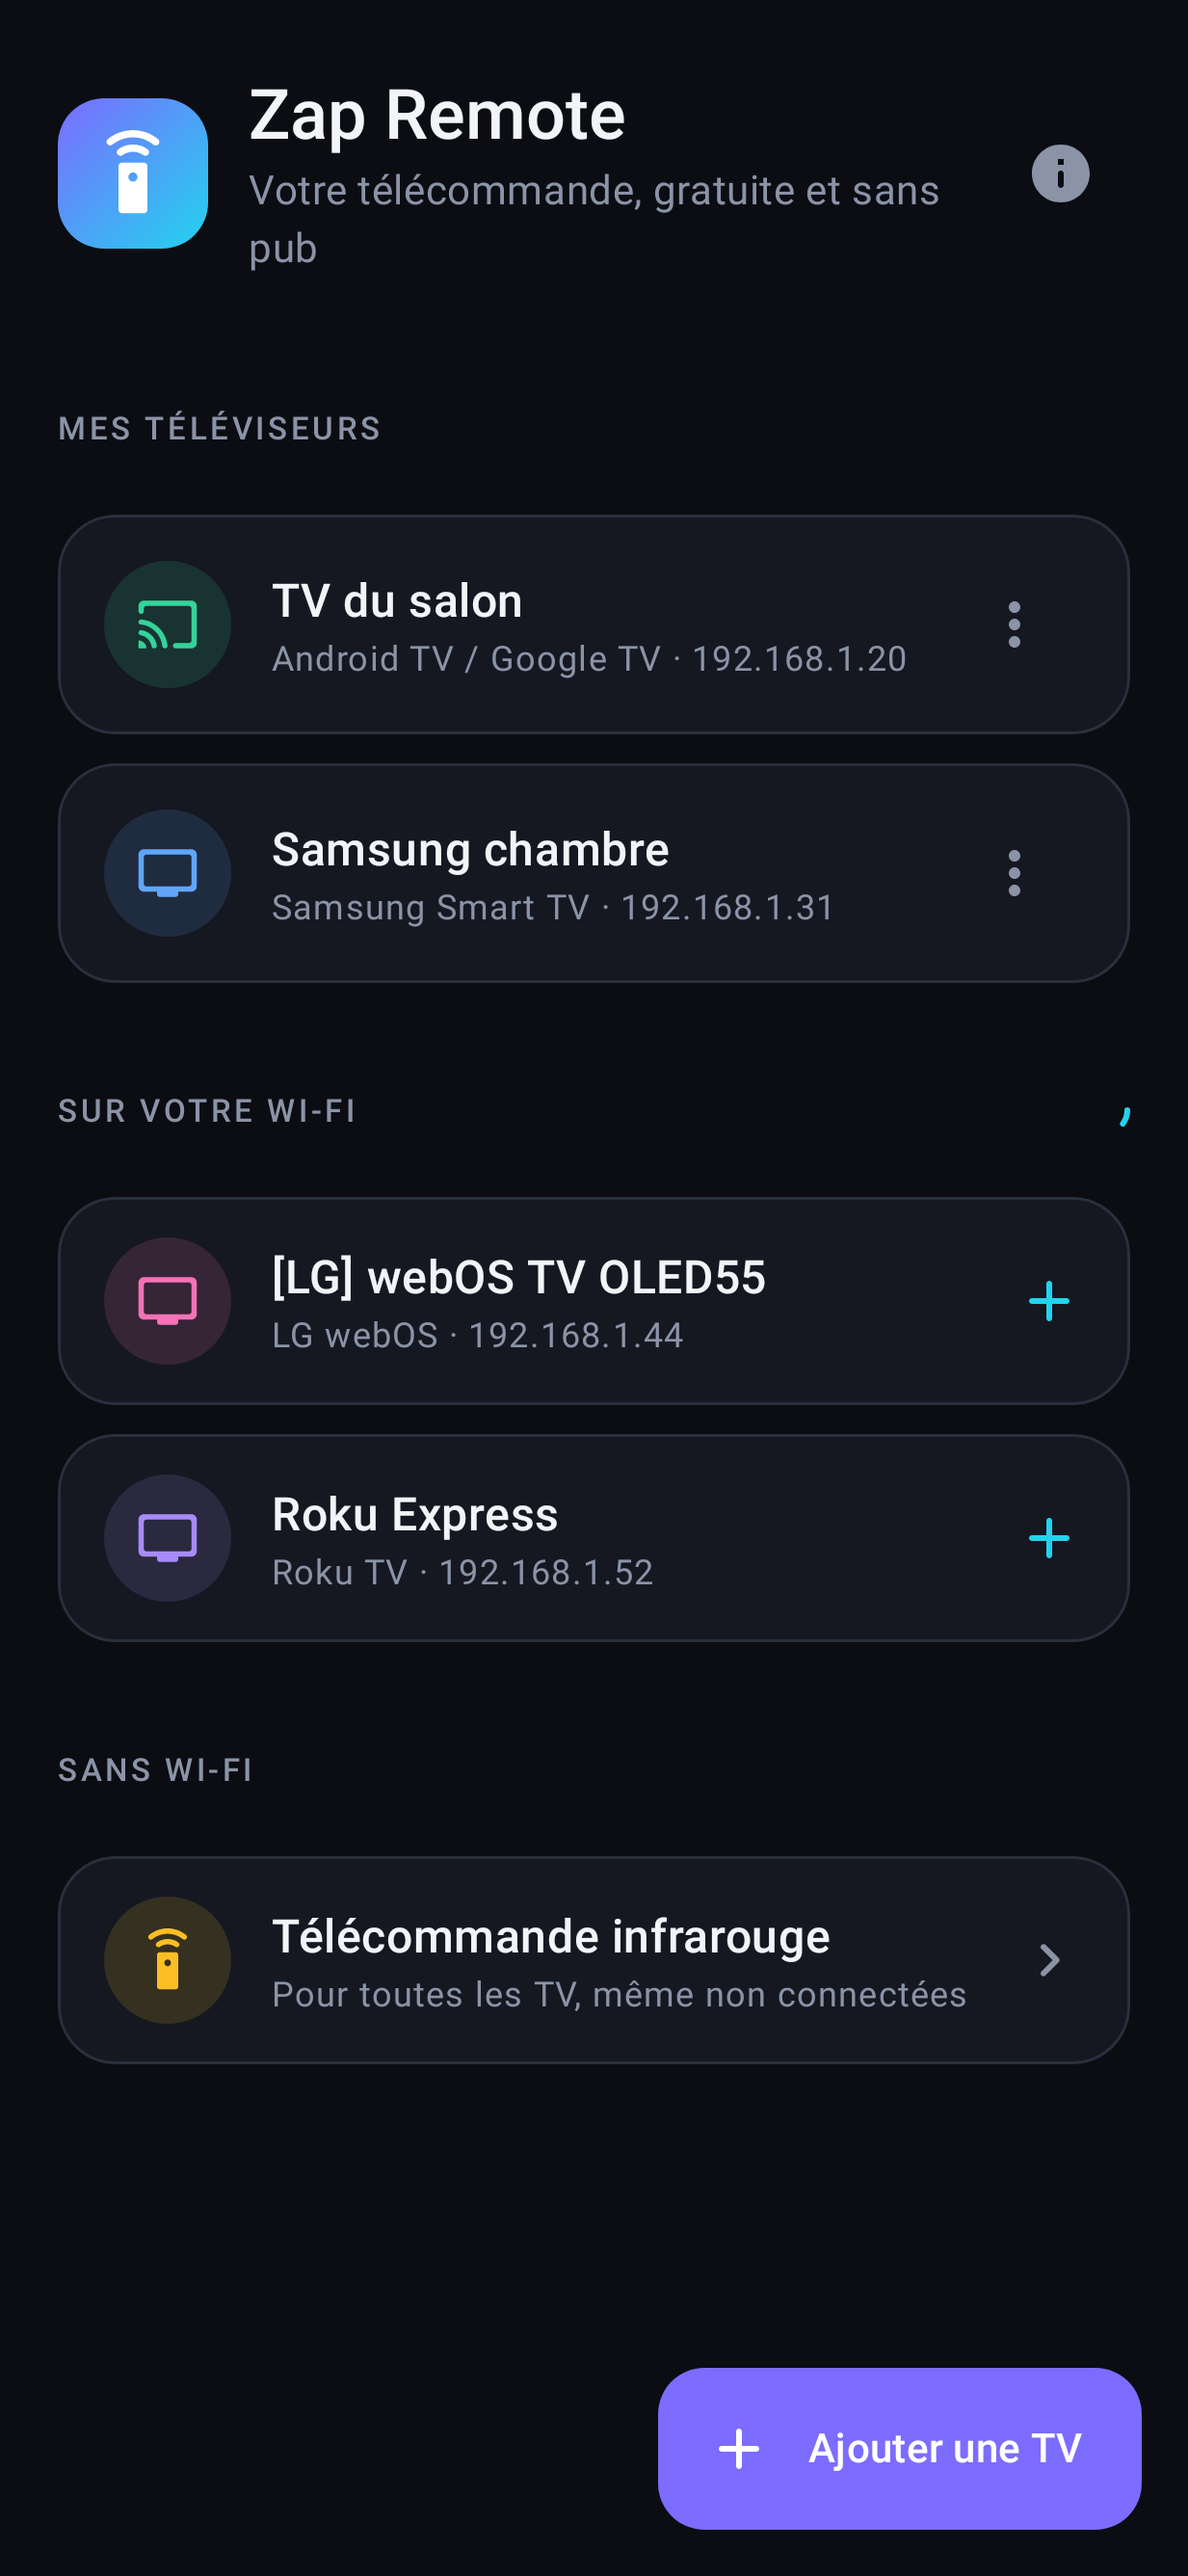
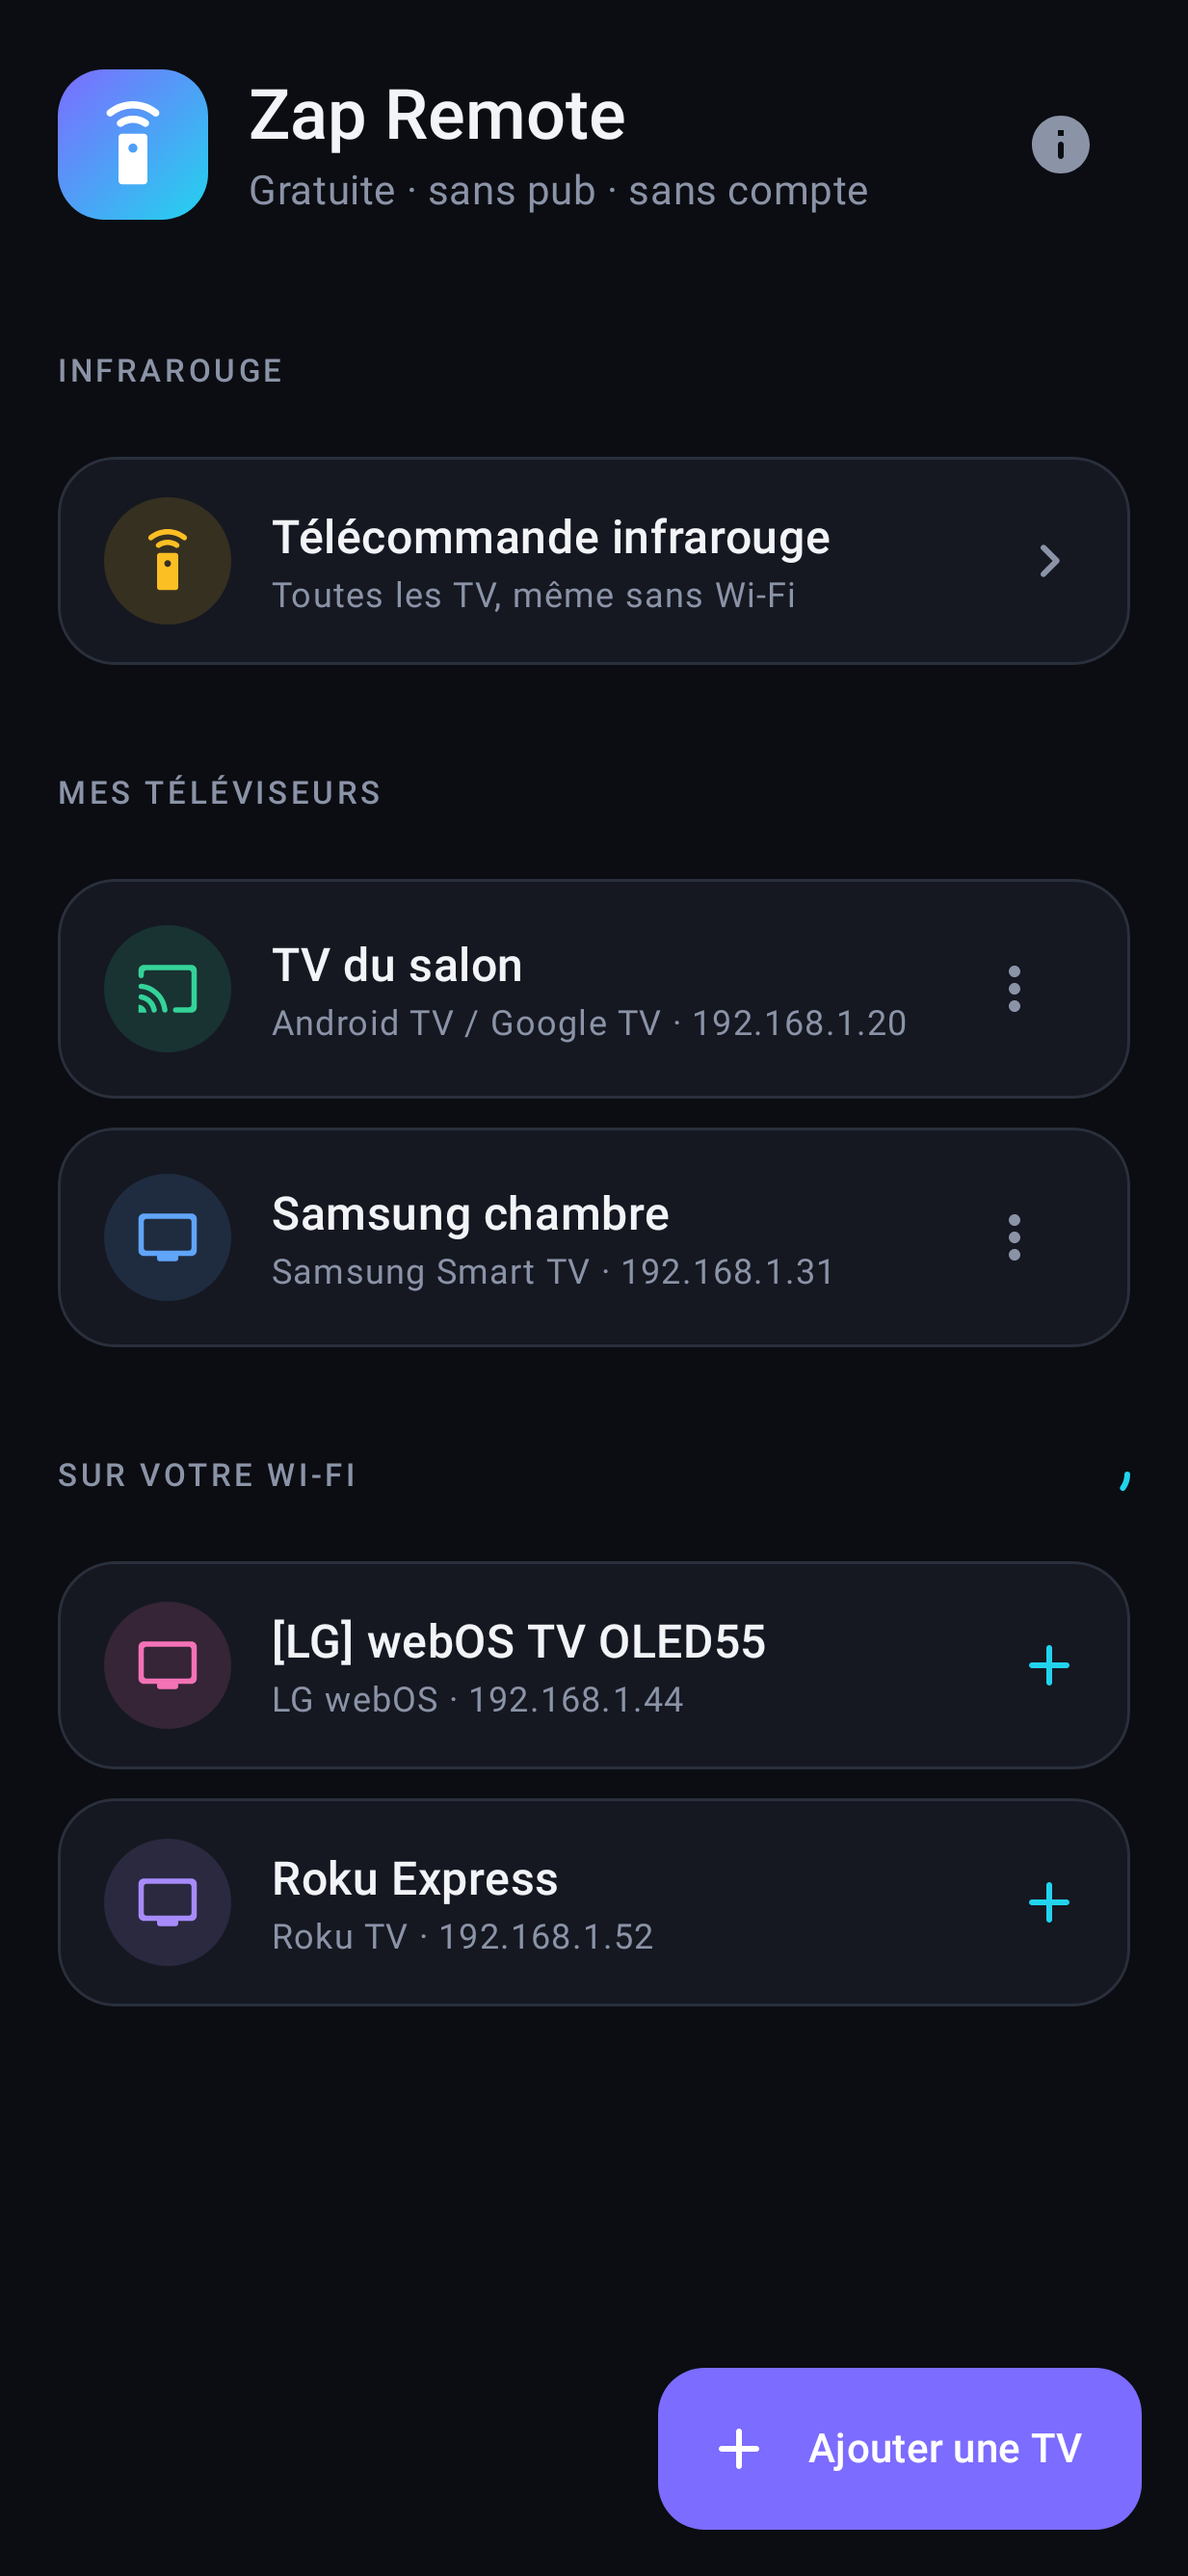
Make the infrared remote always reachable
The IR entry was hidden when the phone reported no emitter and sat at the
bottom of the list. It now shows at the top when an emitter exists, is
offered in the Add TV dialog, and explains what to do when the phone has
no IR blaster.

Claude-Session: https://claude.ai/code/session_01V6u89Q5xvik9sCrJAHsFrb

diff --git a/app/src/main/java/io/github/woroxiv/tvremote/ui/screens/DevicesScreen.kt b/app/src/main/java/io/github/woroxiv/tvremote/ui/screens/DevicesScreen.kt
@@ -128,6 +128,11 @@ fun DevicesScreen(
         ) {
             item { Header(onAbout = { showAbout = true }) }
 
+            if (hasIrEmitter) {
+                item { SectionTitle("Infrarouge") }
+                item { IrCard(hasIrEmitter, onClick = { showIr = true }) }
+            }
+
             if (devices.isNotEmpty()) {
                 item { SectionTitle("Mes téléviseurs") }
                 items(devices, key = { it.id }) { d ->
@@ -163,24 +168,60 @@ fun DevicesScreen(
                 }
             }
 
-            if (hasIrEmitter) {
+            if (!hasIrEmitter) {
                 item { SectionTitle("Sans Wi-Fi") }
-                item {
-                    DeviceRow(
-                        title = "Télécommande infrarouge",
-                        subtitle = "Pour toutes les TV, même non connectées",
-                        protocol = Protocol.IR,
-                        onClick = { showIr = true },
-                        trailing = { Icon(Icons.Rounded.ChevronRight, contentDescription = null, tint = Palette.TextDim) },
-                    )
-                }
+                item { IrCard(hasIrEmitter, onClick = { showIr = true }) }
             }
         }
     }
 
-    if (showManual) ManualDialog(onDismiss = { showManual = false }, onAdd = { n, h, p -> showManual = false; onAddManual(n, h, p) })
-    if (showIr) IrBrandDialog(onDismiss = { showIr = false }, onPick = { showIr = false; onAddIr(it) })
+    if (showManual) ManualDialog(
+        hasIrEmitter = hasIrEmitter,
+        onDismiss = { showManual = false },
+        onAdd = { n, h, p -> showManual = false; onAddManual(n, h, p) },
+        onAddIr = { showManual = false; onAddIr(it) },
+    )
+    if (showIr) {
+        if (hasIrEmitter) IrBrandDialog(onDismiss = { showIr = false }, onPick = { showIr = false; onAddIr(it) })
+        else NoIrDialog(onDismiss = { showIr = false })
+    }
     if (showAbout) AboutDialog(onDismiss = { showAbout = false })
+}
+
+@Composable
+private fun IrCard(hasIrEmitter: Boolean, onClick: () -> Unit) {
+    DeviceRow(
+        title = "Télécommande infrarouge",
+        subtitle = if (hasIrEmitter) "Toutes les TV, même sans Wi-Fi"
+        else "Non disponible sur ce téléphone",
+        protocol = Protocol.IR,
+        onClick = onClick,
+        trailing = { Icon(Icons.Rounded.ChevronRight, contentDescription = null, tint = Palette.TextDim) },
+    )
+}
+
+@Composable
+private fun NoIrDialog(onDismiss: () -> Unit) {
+    AlertDialog(
+        onDismissRequest = onDismiss,
+        title = { Text("Pas d'émetteur infrarouge") },
+        text = {
+            Column(verticalArrangement = Arrangement.spacedBy(8.dp)) {
+                Text(
+                    "Android indique que ce téléphone n'a pas d'émetteur infrarouge. " +
+                        "C'est une petite fenêtre noire sur la tranche du haut, présente surtout sur les " +
+                        "Xiaomi, Redmi, Poco, certains Honor/Huawei et quelques anciens Samsung/LG."
+                )
+                Text(
+                    "Bonne nouvelle : la plupart des TV récentes se pilotent par le Wi-Fi. " +
+                        "Allumez la TV, connectez-la au même Wi-Fi que le téléphone, et elle apparaîtra dans " +
+                        "« Sur votre Wi-Fi » — ou utilisez « Ajouter une TV » avec son adresse IP.",
+                    style = MaterialTheme.typography.bodySmall, color = Palette.TextDim,
+                )
+            }
+        },
+        confirmButton = { TextButton(onClick = onDismiss) { Text("Compris") } },
+    )
 }
 
 @Composable
@@ -333,14 +374,21 @@ private fun SavedDeviceCard(device: TvDevice, onOpen: () -> Unit, onRename: (Str
     }
 }
 
-private val manualProtocols = listOf(Protocol.ANDROID_TV, Protocol.SAMSUNG, Protocol.LG, Protocol.ROKU)
+private val manualProtocols = listOf(Protocol.ANDROID_TV, Protocol.SAMSUNG, Protocol.LG, Protocol.ROKU, Protocol.IR)
 
 @Composable
-private fun ManualDialog(onDismiss: () -> Unit, onAdd: (String, String, Protocol) -> Unit) {
+private fun ManualDialog(
+    hasIrEmitter: Boolean,
+    onDismiss: () -> Unit,
+    onAdd: (String, String, Protocol) -> Unit,
+    onAddIr: (IrBrand) -> Unit,
+) {
     var name by rememberSaveable { mutableStateOf("") }
     var host by rememberSaveable { mutableStateOf("") }
     var protocol by rememberSaveable { mutableStateOf(Protocol.ANDROID_TV) }
+    var brand by rememberSaveable { mutableStateOf<IrBrand?>(null) }
     val validHost = host.trim().matches(Regex("^[A-Za-z0-9.\\-:]+$"))
+    val ir = protocol == Protocol.IR
     AlertDialog(
         onDismissRequest = onDismiss,
         title = { Text("Ajouter une TV") },
@@ -360,20 +408,48 @@ private fun ManualDialog(onDismiss: () -> Unit, onAdd: (String, String, Protocol
                         }
                     }
                 }
-                OutlinedTextField(
-                    host, { host = it }, singleLine = true,
-                    label = { Text("Adresse IP (ex. 192.168.1.20)") },
-                    keyboardOptions = KeyboardOptions(keyboardType = KeyboardType.Uri),
-                )
-                OutlinedTextField(name, { name = it }, singleLine = true, label = { Text("Nom (facultatif)") })
-                Text(
-                    "L'adresse IP se trouve dans les réglages réseau de la TV.",
-                    style = MaterialTheme.typography.bodySmall, color = Palette.TextDim,
-                )
+                if (ir) {
+                    if (!hasIrEmitter) {
+                        Text(
+                            "Aucun émetteur infrarouge n'est détecté sur ce téléphone : cette option ne " +
+                                "fonctionnera pas. Utilisez plutôt le Wi-Fi.",
+                            style = MaterialTheme.typography.bodySmall, color = Palette.Warning,
+                        )
+                    }
+                    Text("Marque", style = MaterialTheme.typography.labelLarge, color = Palette.TextDim)
+                    Column(verticalArrangement = Arrangement.spacedBy(4.dp)) {
+                        IrBrand.entries.chunked(3).forEach { row ->
+                            Row(horizontalArrangement = Arrangement.spacedBy(8.dp)) {
+                                row.forEach { b ->
+                                    FilterChip(selected = brand == b, onClick = { brand = b }, label = { Text(b.label) })
+                                }
+                            }
+                        }
+                    }
+                    Text(
+                        "Pointez le haut du téléphone vers la TV.",
+                        style = MaterialTheme.typography.bodySmall, color = Palette.TextDim,
+                    )
+                } else {
+                    OutlinedTextField(
+                        host, { host = it }, singleLine = true,
+                        label = { Text("Adresse IP (ex. 192.168.1.20)") },
+                        keyboardOptions = KeyboardOptions(keyboardType = KeyboardType.Uri),
+                    )
+                    OutlinedTextField(name, { name = it }, singleLine = true, label = { Text("Nom (facultatif)") })
+                    Text(
+                        "L'adresse IP se trouve dans les réglages réseau de la TV.",
+                        style = MaterialTheme.typography.bodySmall, color = Palette.TextDim,
+                    )
+                }
             }
         },
         confirmButton = {
-            TextButton(enabled = validHost, onClick = { onAdd(name, host, protocol) }) { Text("Connecter") }
+            if (ir) {
+                TextButton(enabled = brand != null && hasIrEmitter, onClick = { brand?.let(onAddIr) }) { Text("Ouvrir") }
+            } else {
+                TextButton(enabled = validHost, onClick = { onAdd(name, host, protocol) }) { Text("Connecter") }
+            }
         },
         dismissButton = { TextButton(onClick = onDismiss) { Text("Annuler") } },
     )
